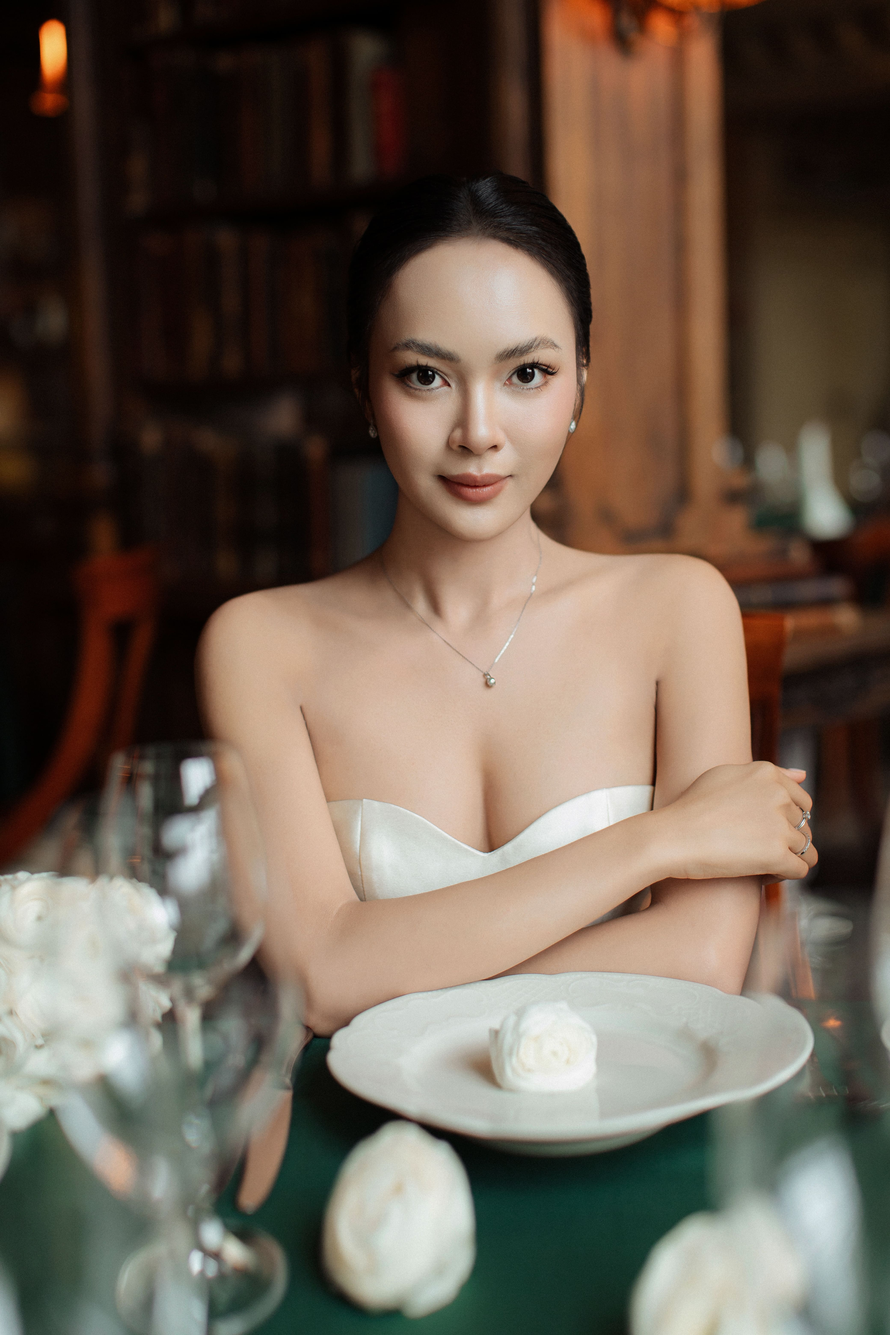
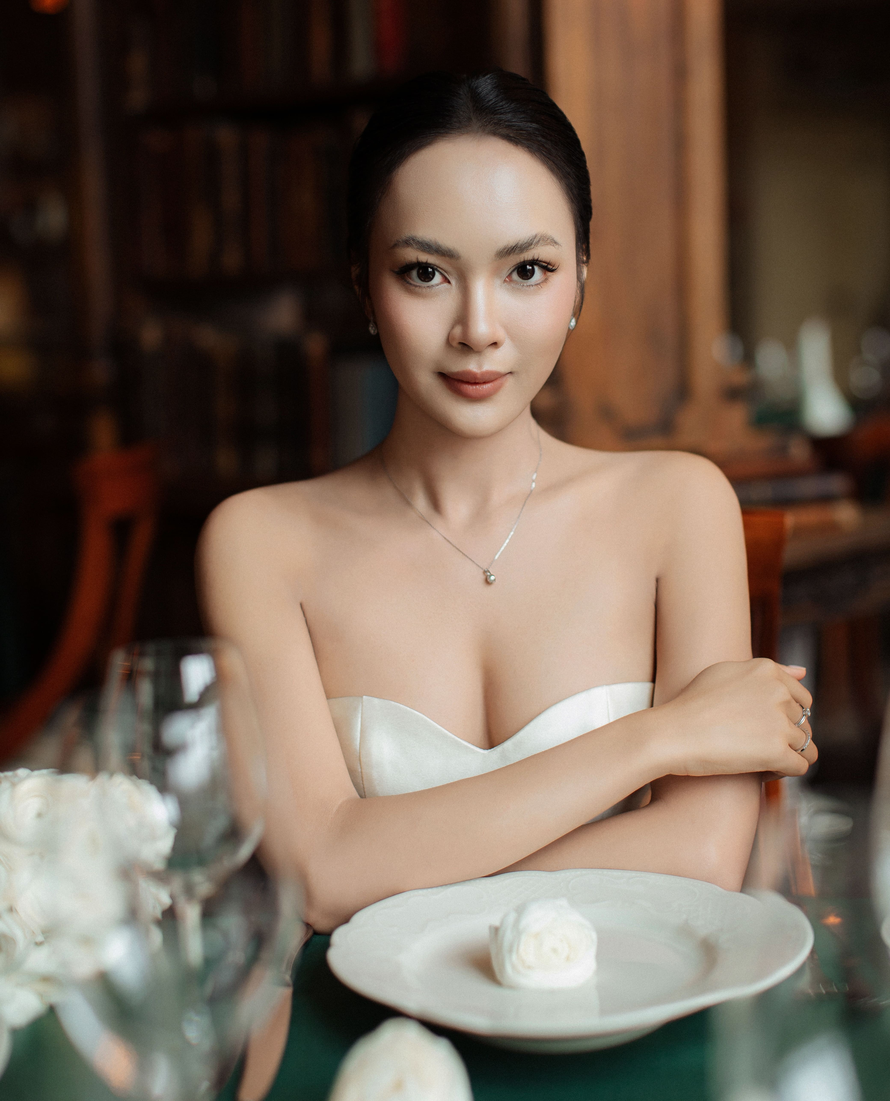
Done final

diff --git a/index.html b/index.html
@@ -2,27 +2,27 @@
 	<meta charset="UTF-8">
 	<meta name="viewport" content="width=device-width, initial-scale=1">
 	<link rel="profile" href="https://gmpg.org/xfn/11">
-		<meta property="og:image" content="https://i.ibb.co/v39dh2H/IMG-8586-copy-2.jpg">
+		<meta property="og:image" content="https://i.ibb.co/C8DMDqw/IMG-8114-copy.jpg">
 		
 <!-- Search Engine Optimization by Rank Math - https://rankmath.com/ -->
-<title>Thiêm Hiền - Thiệp cưới online</title>
+<title>Thiêm & Hiền - Thiệp cưới online</title>
 <meta name="robots" content="index, follow, max-snippet:-1, max-video-preview:-1, max-image-preview:large">
 <link rel="canonical" href="https://thiepdientu.github.io/thiemhien/">
 <meta property="og:locale" content="vi_VN">
 <meta property="og:type" content="article">
-<meta property="og:title" content="Thiêm Hiền - Thiệp cưới online">
+<meta property="og:title" content="Thiêm & Hiền - Thiệp cưới online">
 <meta property="og:url" content="https://thiepdientu.github.io/thiemhien/">
-<meta property="og:site_name" content="Thiêm Hiền - Thiệp cưới online">
+<meta property="og:site_name" content="Thiêm & Hiền - Thiệp cưới online">
 <meta property="og:updated_time" content="2024-03-13T11:56:14+00:00">
-<meta property="og:image" content="https://i.ibb.co/v39dh2H/IMG-8586-copy-2.jpg">
-<meta property="og:image:secure_url" content="https://i.ibb.co/v39dh2H/IMG-8586-copy-2.jpg">
+<meta property="og:image" content="https://i.ibb.co/C8DMDqw/IMG-8114-copy.jpg">
+<meta property="og:image:secure_url" content="https://i.ibb.co/C8DMDqw/IMG-8114-copy.jpg">
 <meta property="og:image:width" content="961">
 <meta property="og:image:height" content="1440">
-<meta property="og:image:alt" content="Thiêm Hiền - Thiệp cưới online">
+<meta property="og:image:alt" content="Thiêm & Hiền - Thiệp cưới online">
 <meta property="og:image:type" content="image/jpeg">
 <meta name="twitter:card" content="summary_large_image">
-<meta name="twitter:title" content="Thiêm Hiền - Thiệp cưới online">
-<meta name="twitter:image" content="https://i.ibb.co/v39dh2H/IMG-8586-copy-2.jpg">
+<meta name="twitter:title" content="Thiêm & Hiền - Thiệp cưới online">
+<meta name="twitter:image" content="https://i.ibb.co/C8DMDqw/IMG-8114-copy.jpg">
 <!-- /Rank Math WordPress SEO plugin -->
 
 <link rel="dns-prefetch" href="//cdn.jsdelivr.net">
@@ -494,8 +494,8 @@ Số 09, Chu Văn An, Yết Kiêu, Hà Đông, Hà Nội ( đón khách 16:30 - 
             </a>
         </div>
                 <div class="swiper-slide">
-            <a href="images/IMG_8570 copy.jpg" data-fancybox="gallery">
-            <img src="images/IMG_8570 copy.jpg" style="object-position:">
+            <a href="images/IMG_8528 copy.jpg" data-fancybox="gallery">
+            <img src="images/IMG_8528 copy.jpg" style="object-position:">
             </a>
         </div>
          <div class="swiper-slide">
